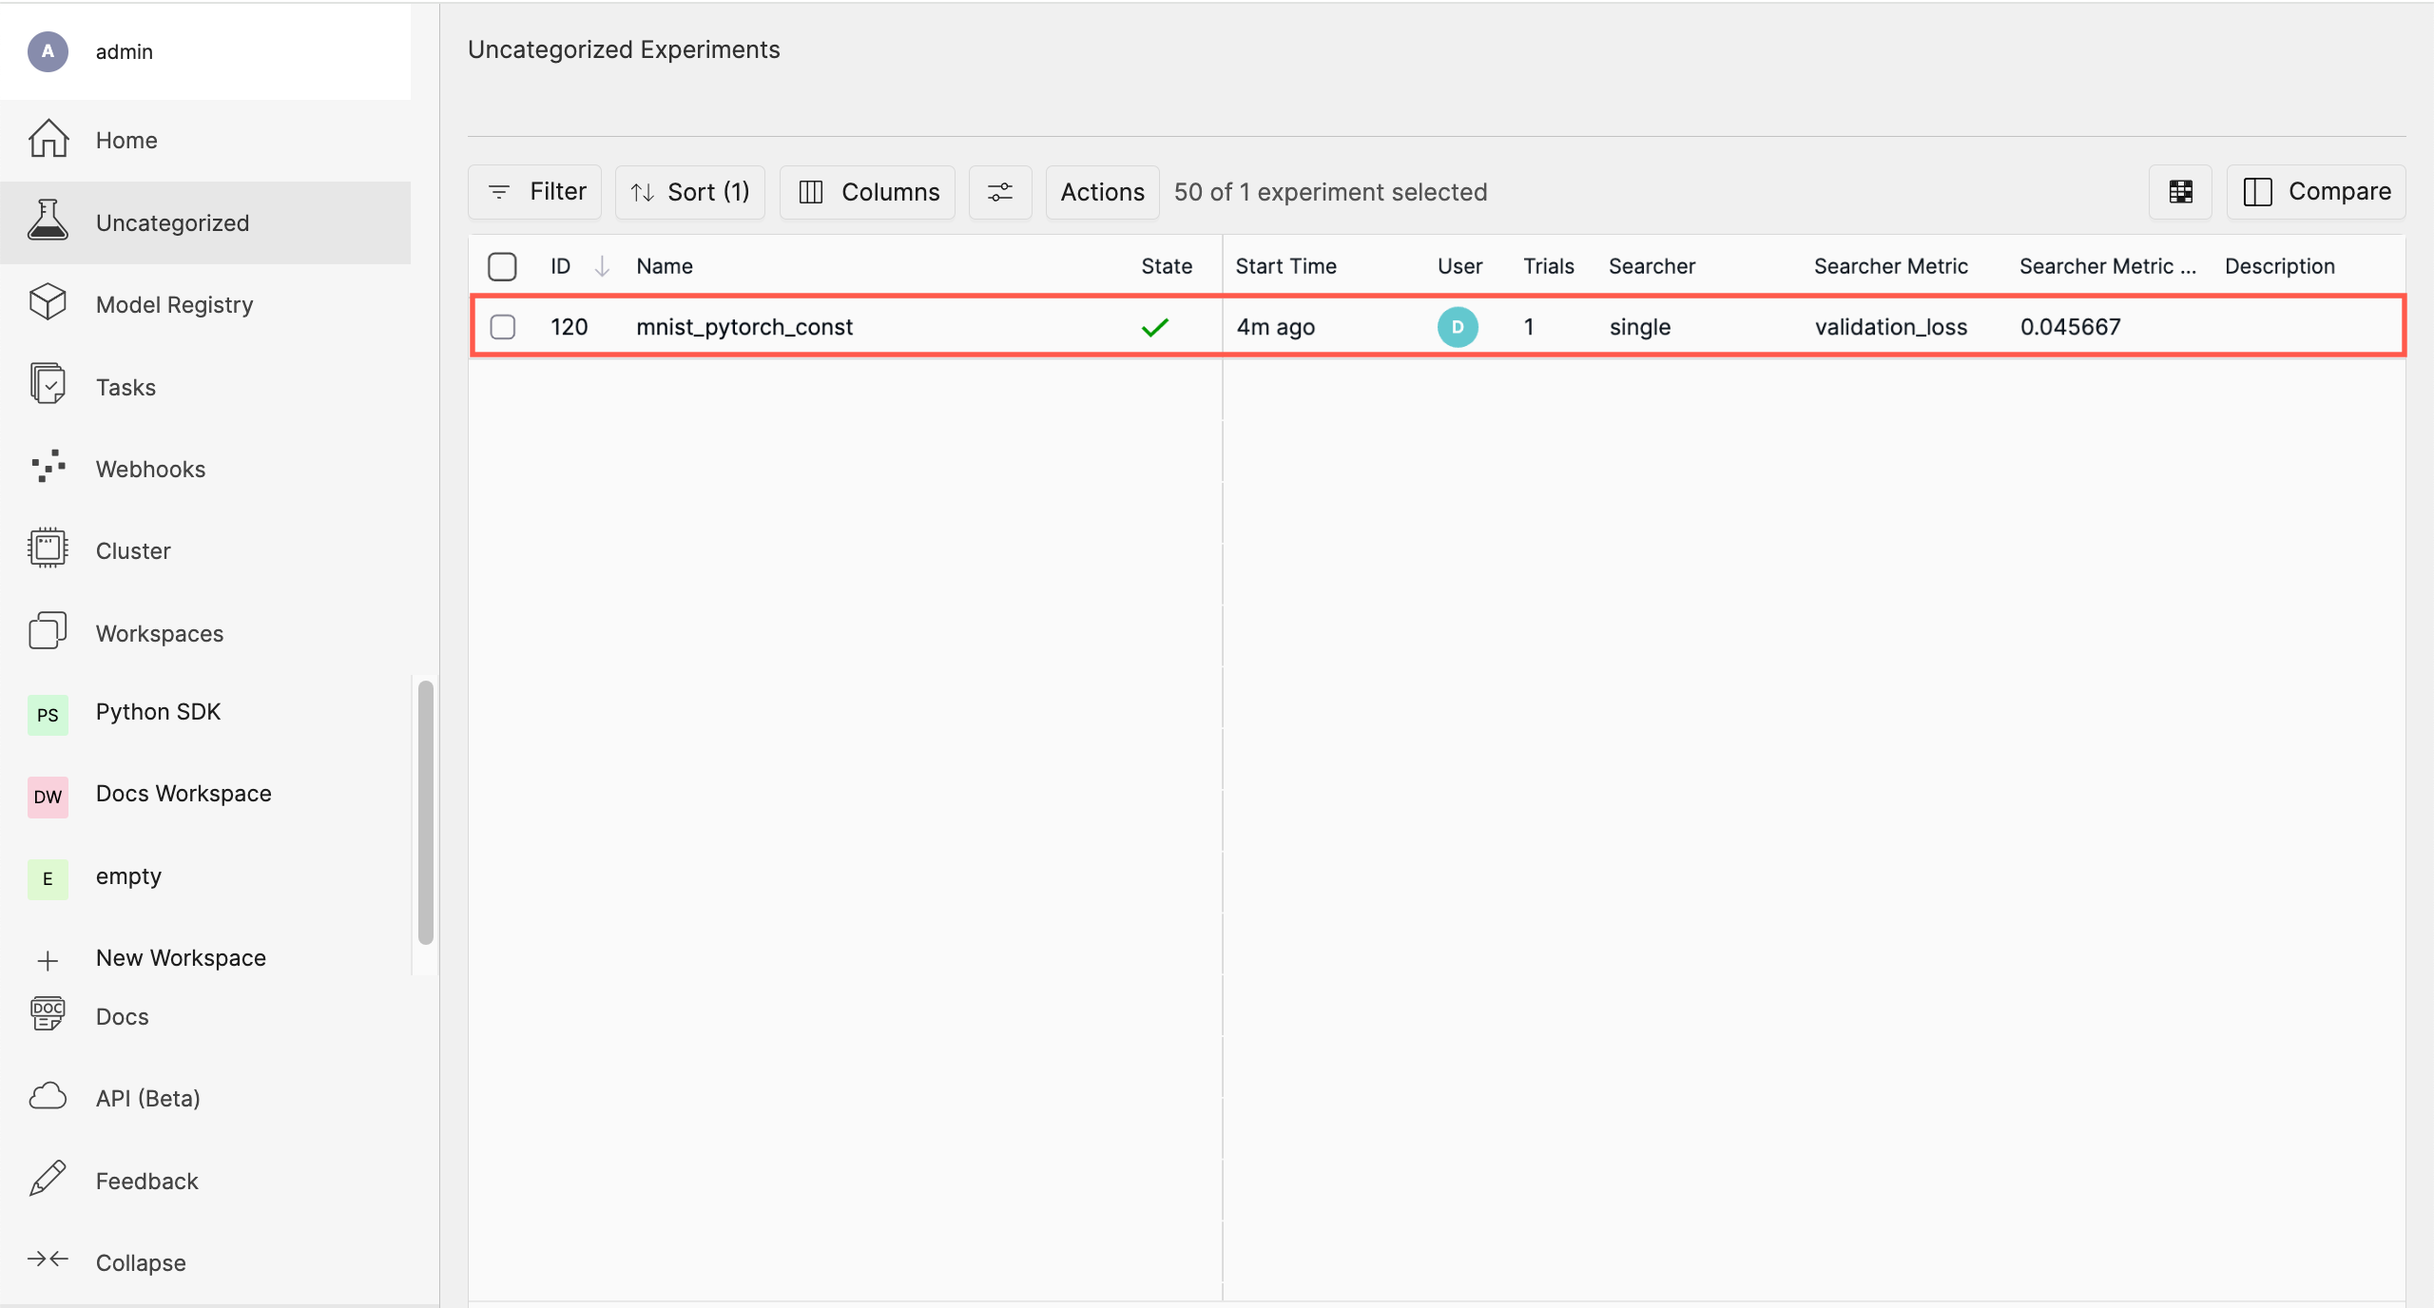
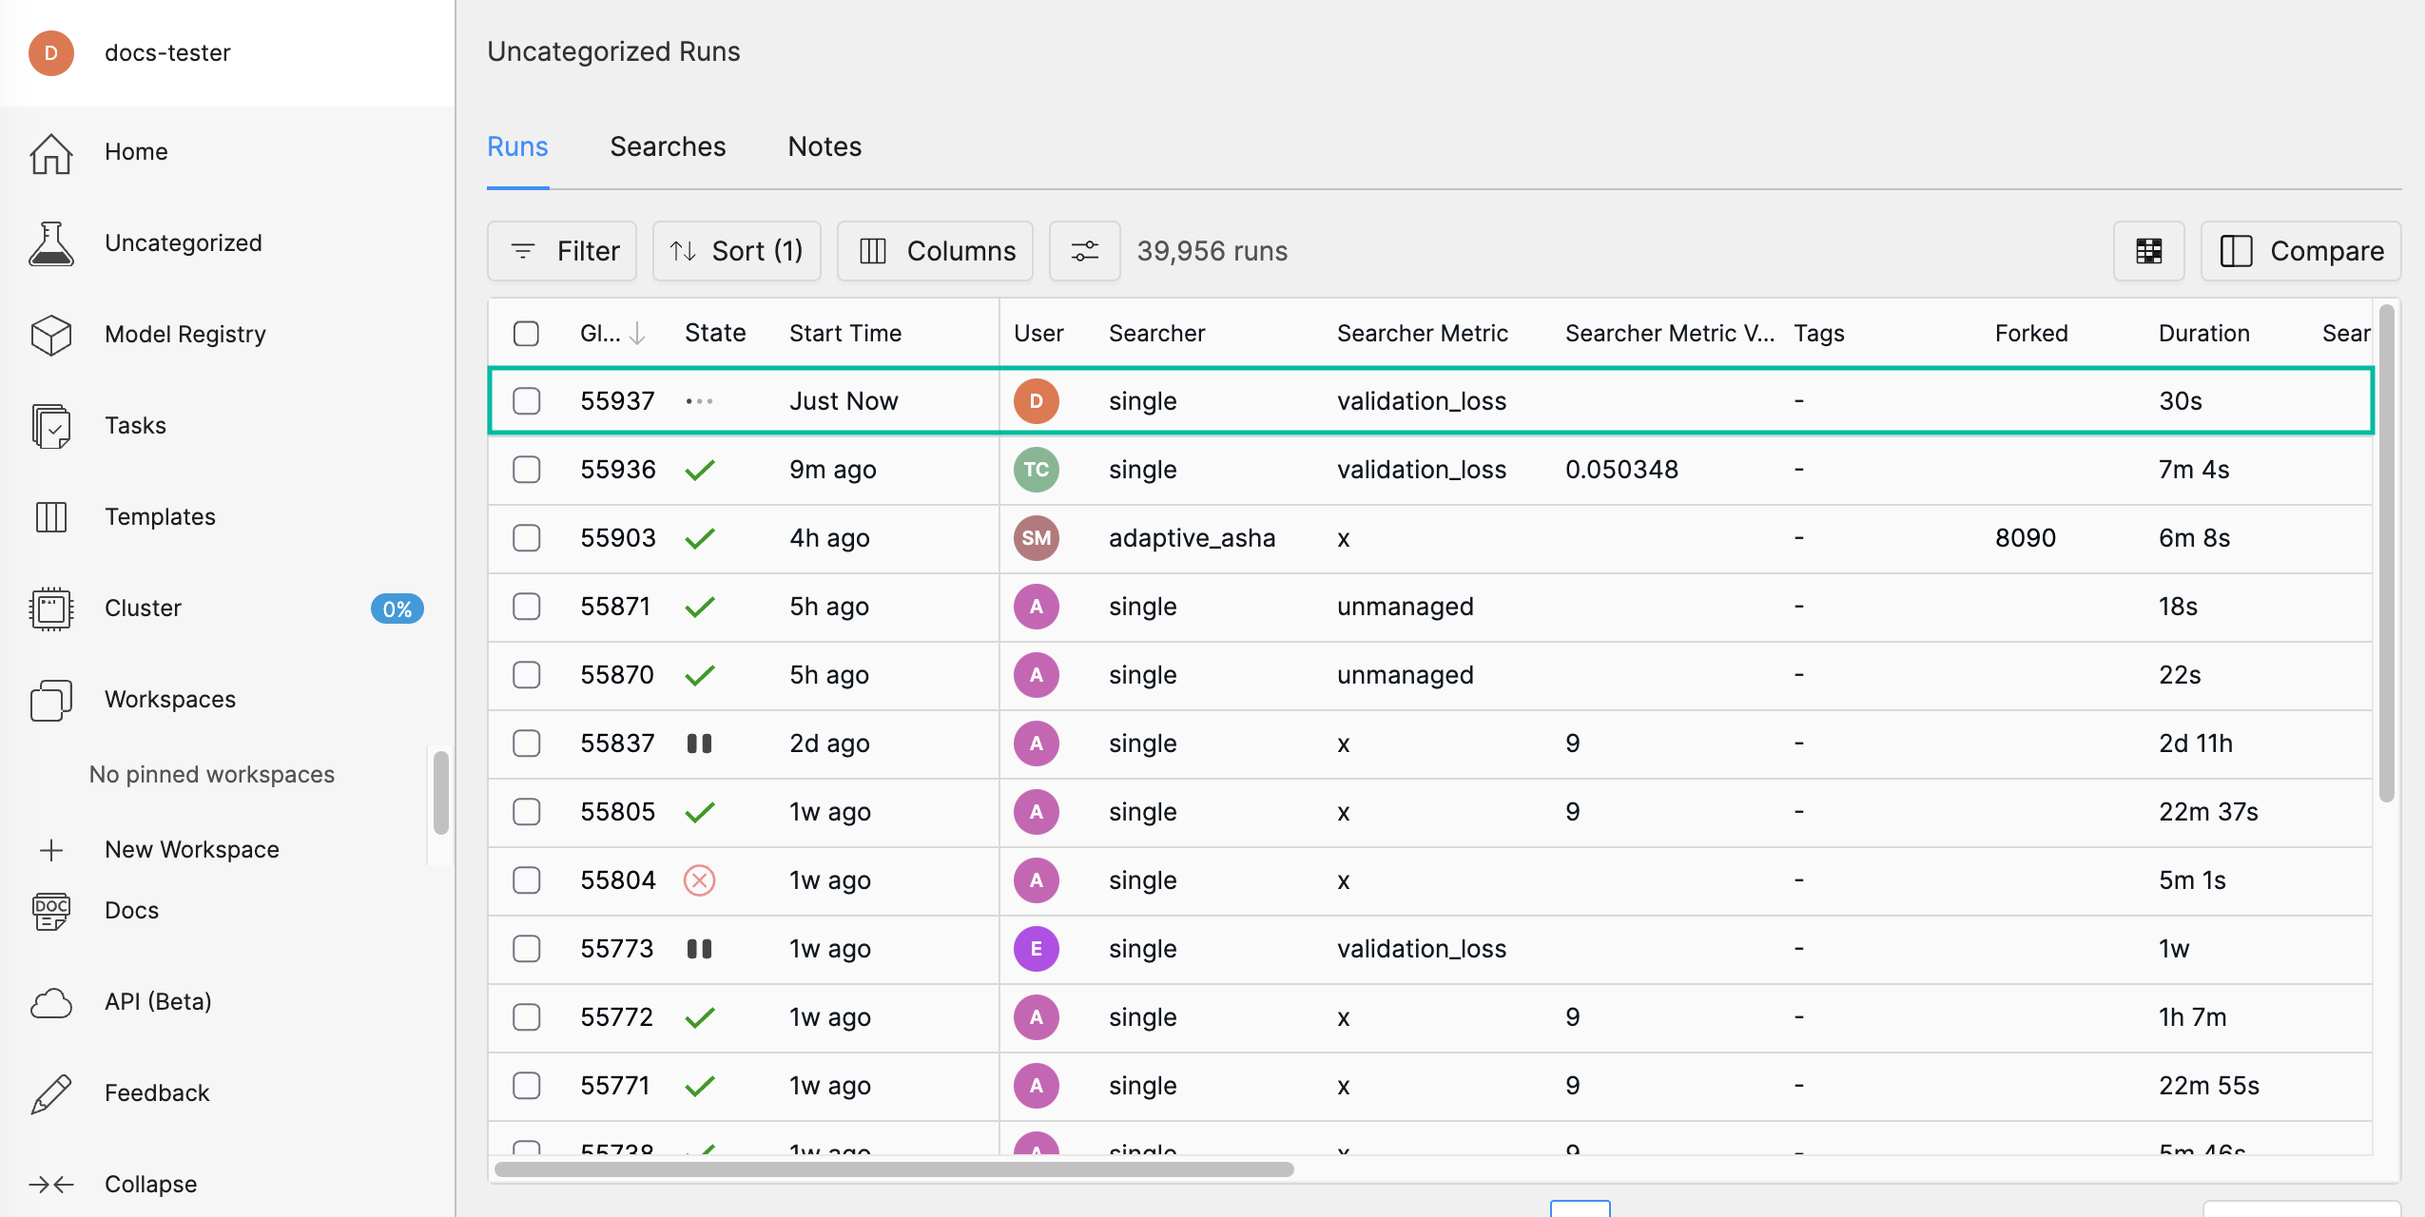
Make docs consistent with run centrix ux

diff --git a/docs/get-started/webui-qs.rst b/docs/get-started/webui-qs.rst
@@ -10,32 +10,6 @@
 
 Follow these steps to see how to run your first experiment.
 
-*******************
- Runs vs. Searches
-*******************
-
-.. tabs::
-
-   .. tab::
-
-      Single-Trial Run
-
-      -  A single-trial experiment (or run) allows you to establish a baseline performance for your
-         model.
-
-      -  Running a single trial is useful for understanding how your model performs with a fixed set
-         of hyperparameters. It serves as a benchmark against which you can compare results from
-         more complex searches.
-
-   .. tab::
-
-      Multi-Trial Search
-
-      -  A multi-trial experiment (or search) allows you to optimize your model by exploring
-         different configurations of hyperparameters automatically.
-      -  A search systematically tests various hyperparameter combinations to find the
-         best-performing configuration. This is more efficient than manually tuning each parameter.
-
 ***************
  Prerequisites
 ***************
@@ -46,23 +20,42 @@ You must have a running Determined cluster with the CLI installed.
 -  To set up a remote cluster, visit the :ref:`Installation Guide <installation-guide>` where you'll
    find options for On Prem, AWS, GCP, Kubernetes, and Slurm.
 
-****************************
- Execute a Single-Trial Run
-****************************
+**********
+ Concepts
+**********
 
-Before running a search, it's important to establish a baseline performance using a single-trial
-experiment (also known as a "run"). This gives you a reference point to compare the results of your
-multi-trial searches.
+-  Single-Trial Run: A single-trial experiment (or run) allows you to establish a baseline
+   performance for your model. Running a single trial is useful for understanding how your model
+   performs with a fixed set of hyperparameters. It serves as a benchmark against which you can
+   compare results from more complex searches.
+
+-  Multi-Trial Search: A multi-trial experiment (or search) allows you to optimize your model by
+   exploring different configurations of hyperparameters automatically. A search systematically
+   tests various hyperparameter combinations to find the best-performing configuration. This is more
+   efficient than manually tuning each parameter.
+
+-  Remote Distributed Training: Remote distributed training jobs enable you to train your model
+   across multiple GPUs or nodes in a cluster, significantly reducing the time required for training
+   large models or datasets. This approach allows for efficient scaling and management of resources,
+   particularly in more demanding machine learning tasks.
+
+*********************************
+ Execute and Compare Experiments
+*********************************
+
+In this section, we'll first execute a single-trial run before running a search. This will establish
+the baseline performance of our model and will give us a reference point to compare the results of
+our multi-trial search. Finally, we'll run a remote distributed training job.
 
 .. tabs::
 
    .. tab::
 
-      locally
+      single-trial run
 
-      Train a single model for a fixed number of batches, using constant values for all
-      hyperparameters on a single *slot*. A slot is a CPU or CPU computing device, which the
-      Determined master schedules to run.
+      Follow these steps to train a single model for a fixed number of batches, using constant
+      values for all hyperparameters on a single *slot*. A slot is a CPU or CPU computing device,
+      which the Determined master schedules to run.
 
       .. note::
 
@@ -102,13 +95,13 @@ multi-trial searches.
 
       #. Navigate to the home page and then visit your **Uncategorized** experiments.
 
+         -  Determined displays all runs in a flat view for ease of comparison.
+
          .. image:: /assets/images/qswebui-recent-local.png
             :alt: Determined AI WebUI Dashboard showing a user's recent experiment submissions
 
-      #. Select the experiment to display the experiment’s details such as Metrics.
-
-         .. image:: /assets/images/qswebui-metrics-local.png
-            :alt: Determined AI WebUI Dashboard showing details for a local experiment
+      #. Selecting the experiment displays more details such as metrics and checkpoints. With this
+         baseline, we can now execute a multi-trial experiment, or "search".
 
       **Create a Strong Password**
 
@@ -121,7 +114,92 @@ multi-trial searches.
 
    .. tab::
 
-      remotely
+      multi-trial search
+
+      Once you have established a baseline performance by creating your single-trial experiment (or
+      "run"), you can create a multi-trial experiment (or "search") and compare the outcome with the
+      baseline.
+
+      To do this, first create a ``search.yaml`` configuration file for executing the multi-trial
+      search.
+
+      #. Prepare the configuration file.
+
+         -  Copy the following code and save the file as ``search.yaml`` in the same directory as
+            your ``const.yaml`` file:
+
+            .. code:: yaml
+
+               name: mnist_pytorch_search
+               hyperparameters:
+                 learning_rate:
+                   type: log
+                   base: 10
+                   minval: 1e-4
+                   maxval: 1.0
+                 n_filters1:
+                   type: int
+                   minval: 16
+                   maxval: 64
+                 n_filters2:
+                   type: int
+                   minval: 32
+                   maxval: 128
+                 dropout1:
+                   type: double
+                   minval: 0.2
+                   maxval: 0.5
+                 dropout2:
+                   type: double
+                   minval: 0.3
+                   maxval: 0.6
+
+               searcher:
+                 name: random
+                 metric: validation_loss
+                 max_trials: 20
+                 max_length:
+                   batches: 1000
+                 smaller_is_better: true
+
+               entrypoint: python3 train.py
+
+      #. Create the Search
+
+         Once you've created the new configuration file, you can create and run the search using the
+         following command:
+
+         .. code:: bash
+
+            det experiment create search.yaml .
+
+         This will start the search, and Determined will run multiple trials, each with a different
+         combination of hyperparameters from the defined ranges.
+
+      #. Monitor the Search
+
+         In the WebUI, navigate to the **Searches** tab to monitor the progress of your search.
+         You’ll be able to see the different trials running, their status, and their performance
+         metrics. Determined also offers built-in visualizations to help you understand the results.
+
+         .. image:: /assets/images/qswebui-multi-trial-search.png
+            :alt: Determined AI WebUI Dashboard showing a user's recent multi-trial search
+
+      #. Analyze the Results
+
+         After the search is complete, you can review the best-performing trials and the
+         hyperparameter configurations that led to them. This will help you identify the optimal
+         settings for your model.
+
+         Selecting **mnist_pytorch_search** takes you to the "runs" view where you can choose which
+         runs you want to compare.
+
+         .. image:: /assets/images/qswebui-mnist-pytorch-search.png
+            :alt: Determined AI WebUI Dashboard with mnist pytorch search selected and ready to compare
+
+   .. tab::
+
+      remote distributed training job
 
       Run a remote distributed training job.
 
@@ -174,100 +252,9 @@ multi-trial searches.
 
       #. In your browser, navigate to the home page and then visit **Your Recent Submissions**.
 
-         .. image:: /assets/images/qswebui-recent-remote.png
-            :alt: Determined AI WebUI Dashboard showing a user's recent experiment submissions
-
       #. Select the experiment to display the experiment’s details such as Metrics. Notice the loss
          curve is similar to the locally-run, single-GPU experiment but the time to complete the
          trial is reduced by about half.
-
-         .. image:: /assets/images/qswebui-metrics-remote.png
-            :alt: Determined AI WebUI Dashboard showing details for a remote distributed experiment
-
-******************************
- Execute a Multi-Trial Search
-******************************
-
-Once you have have established a baseline performance by creating your single-trial experiment (or
-"run"), you can create a multi-trial experiment (or "search") and compare the outcome with the
-baseline.
-
-To do this, create a ``search.yaml`` configuration file for executing the multi-trial search.
-
-#. Prepare the configuration file.
-
-   -  To convert the ``const.yaml`` file we used to configure our single-trial experiment into a
-      multi-trial search, you will need to modify the hyperparameters section and the searcher
-      configuration. Copy the following code and save the file as ``search.yaml`` in the same
-      directory as your ``const.yaml`` file:
-
-      .. code:: yaml
-
-         name: mnist_pytorch_search
-         hyperparameters:
-           learning_rate:
-             type: log
-             base: 10
-             minval: 1e-4
-             maxval: 1.0
-           n_filters1:
-             type: int
-             minval: 16
-             maxval: 64
-           n_filters2:
-             type: int
-             minval: 32
-             maxval: 128
-           dropout1:
-             type: double
-             minval: 0.2
-             maxval: 0.5
-           dropout2:
-             type: double
-             minval: 0.3
-             maxval: 0.6
-
-         searcher:
-           name: random
-           metric: validation_loss
-           max_trials: 20
-           max_length:
-             batches: 1000
-           smaller_is_better: true
-
-         entrypoint: python3 train.py
-
-#. Create the Search
-
-   Once you've created the new configuration file, you can create and run the search using the
-   following command:
-
-   .. code:: bash
-
-      det experiment create search.yaml .
-
-   This will start the search, and Determined will run multiple trials, each with a different
-   combination of hyperparameters from the defined ranges.
-
-#. Monitor the Search
-
-   In the WebUI, navigate to the **Searches** tab to monitor the progress of your search. You’ll be
-   able to see the different trials running, their status, and their performance metrics. Determined
-   also offers built-in visualizations to help you understand the results.
-
-   .. image:: /assets/images/qswebui-multi-trial-search.png
-      :alt: Determined AI WebUI Dashboard showing a user's recent multi-trial search
-
-#. Analyze the Results
-
-   After the search is complete, you can review the best-performing trials and the hyperparameter
-   configurations that led to them. This will help you identify the optimal settings for your model.
-
-   Select **mnist_pytorch_search** to view all runs including single-trial experiments. Then choose
-   which runs you want to compare.
-
-   .. image:: /assets/images/qswebui-mnist-pytorch-search.png
-      :alt: Determined AI WebUI Dashboard with mnist pytorch search selected and ready to compare
 
 ************
  Learn More

diff --git a/docs/model-dev-guide/api-guides/apis-howto/api-core-ug.rst b/docs/model-dev-guide/api-guides/apis-howto/api-core-ug.rst
@@ -181,11 +181,16 @@ Run the following command to run the experiment:
 
    det e create metrics.yaml .
 
-Open the Determined WebUI again and go to the **Overview** tab.
+Open the Determined WebUI again, select your experiment, and go to the experiment's **Overview**
+tab. The WebUI now displays metrics.
 
-The WebUI now displays metrics. In this step, you learned how to add a few new lines of code in
-order to report training and validation metrics to the Determined master. Next, we’ll modify our
-script to report checkpoints.
+.. image:: /assets/images/api-core-ug-metrics.png
+   :alt: Determined AI WebUI Dashboard showing experiment metrics
+
+|
+
+In this step, you learned how to add a few new lines of code in order to report training and
+validation metrics to the Determined master. Next, we’ll modify our script to report checkpoints.
 
 ***********************
  Step 3: Checkpointing
@@ -290,7 +295,7 @@ Run the following command to run the experiment:
 
    det e create checkpoints.yaml . -f
 
-In the Determined WebUI, nagivate to the **Checkpoints** tab.
+In the Determined WebUI, nagivate to the experiment's **Checkpoints** tab.
 
 Checkpoints are saved and deleted according to the default
 :ref:`experiment-config-checkpoint-policy`. You can modify the checkpoint policy in the experiment
@@ -377,10 +382,15 @@ Run the following command to run the experiment:
 
    det e create adaptive.yaml .
 
-In the Determined WebUI, navigate to the **Hyperparameters** tab.
+In the Determined WebUI, navigate to the experiment's **Hyperparameters** tab.
 
 You should see a graph in the WebUI that displays the various trials initiated by the Adaptive ASHA
 hyperparameter search algorithm.
+
+.. image:: /assets/images/api-core-ug-hp.png
+   :alt: Determined AI WebUI Dashboard showing experiment hyperparameters
+
+|
 
 ******************************
  Step 5: Distributed Training
@@ -503,7 +513,7 @@ Run the following command to run the experiment:
 
    det e create distributed.yaml .
 
-In the Determined WebUI, go to the **Cluster** pane.
+In the Determined WebUI, go to the **Cluster** pane in the left navigation.
 
 You should be able to see multiple slots active corresponding to the value you set for
 ``slots_per_trial`` you set in ``distributed.yaml``, as well as logs appearing from multiple ranks.

diff --git a/docs/tutorials/quickstart-mdldev.rst b/docs/tutorials/quickstart-mdldev.rst
@@ -210,11 +210,11 @@ schedules to run.
       :align: center
       :alt: Dashboard
 
-   The figure shows two experiments. Experiment **11** has **COMPLETED** and experiment **12** is
+   The figure shows all runs. Experiment **55989** has **COMPLETED** and experiment **55990** is
    still **ACTIVE**. Your experiment number and status can differ depending on how many times you
    run the examples.
 
-#. While an experiment is in the ACTIVE, training state, click the experiment name to see the
+#. While an experiment is in the ACTIVE, training state, click the experiment ID to see the
    **Metrics** graph update for your currently defined metrics:
 
    .. image:: /assets/images/qs04.png
@@ -225,11 +225,6 @@ schedules to run.
    In this example, the graph displays the loss.
 
 #. After the experiment completes, click the experiment name to view the trial page:
-
-   .. image:: /assets/images/qs03.png
-      :width: 704px
-      :align: center
-      :alt: Trial page
 
 Now that you have a fundamental understanding of Determined, follow the next example to learn how to
 scale to distributed training.
@@ -277,11 +272,12 @@ the number of GPUs per machine. You can change the value to match your hardware 
       det -m http://<ipAddress>:8080 experiment create distributed.yaml .
 
 #. To view the WebUI dashboard, enter the cluster address in your browser address bar, accept
-   ``determined`` as the default username, and click **Sign In**. A password is not required.
+   ``determined`` as the default username, and click **Sign In**. You'll need to set a :ref:`strong
+   password <strong-password>`.
 
-#. Click the **Experiment** name to view the experiment’s trial display. The loss curve is similar
-   to the single-GPU experiment in the previous exercise but the time to complete the trial is
-   reduced by about half.
+#. Click the experiment's ID to view the experiment’s trial display. The loss curve is similar to
+   the single-GPU experiment in the previous exercise but the time to complete the trial is reduced
+   by about half.
 
 *********************************
  Run a Hyperparameter Tuning Job
